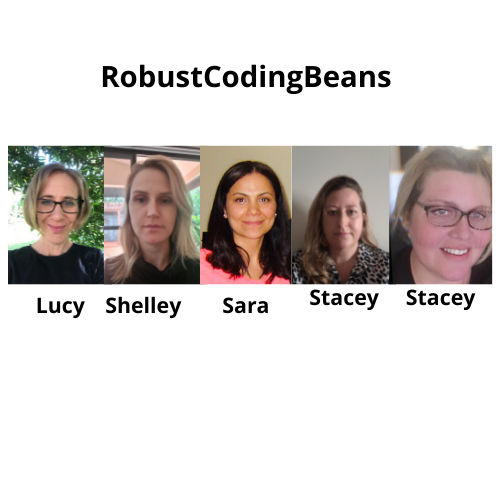
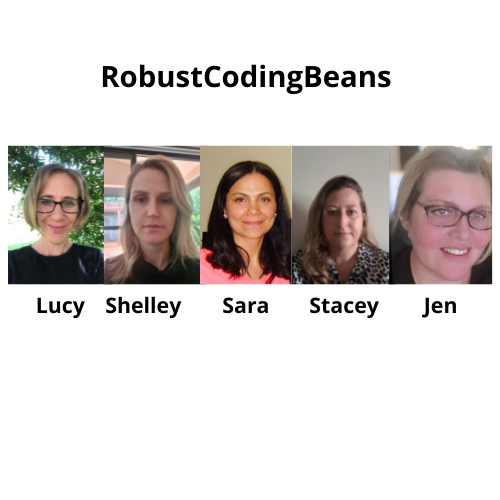
centered images and updated photo

Changed region(s): [[0.6, 0.57, 0.78, 0.63], [0.81, 0.57, 0.96, 0.63]]

diff --git a/src/components/About/About.css b/src/components/About/About.css
@@ -52,19 +52,17 @@ h1 {
 }
 
 .imageColumn {
-  width: 20%;
+  width: 25%;
   margin: 2%;
-  display: inline-flex;
-  justify-content: center;
 }
-
+/* 
 .img-fluid {
   padding: 1%;
   width: 30%;
   border-bottom-left-radius: 50%;
   border-top-right-radius: 50%;
   vertical-align: -webkit-baseline-middle;
-}
+} */
 /* 
 @media only screen and (max-width: 768px) {
   body {
